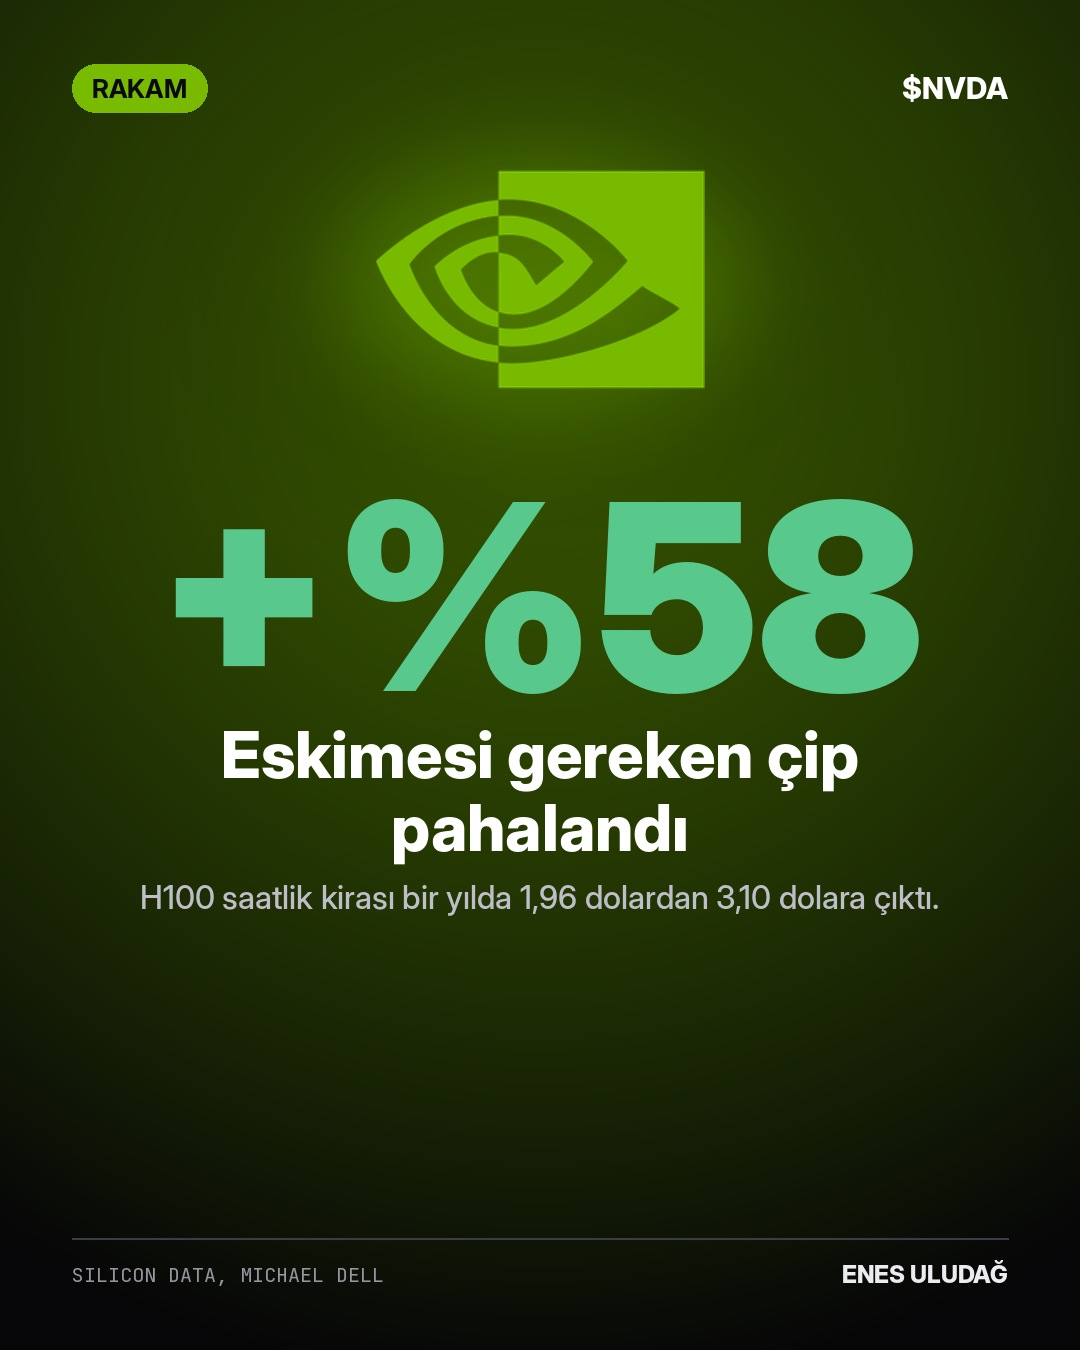
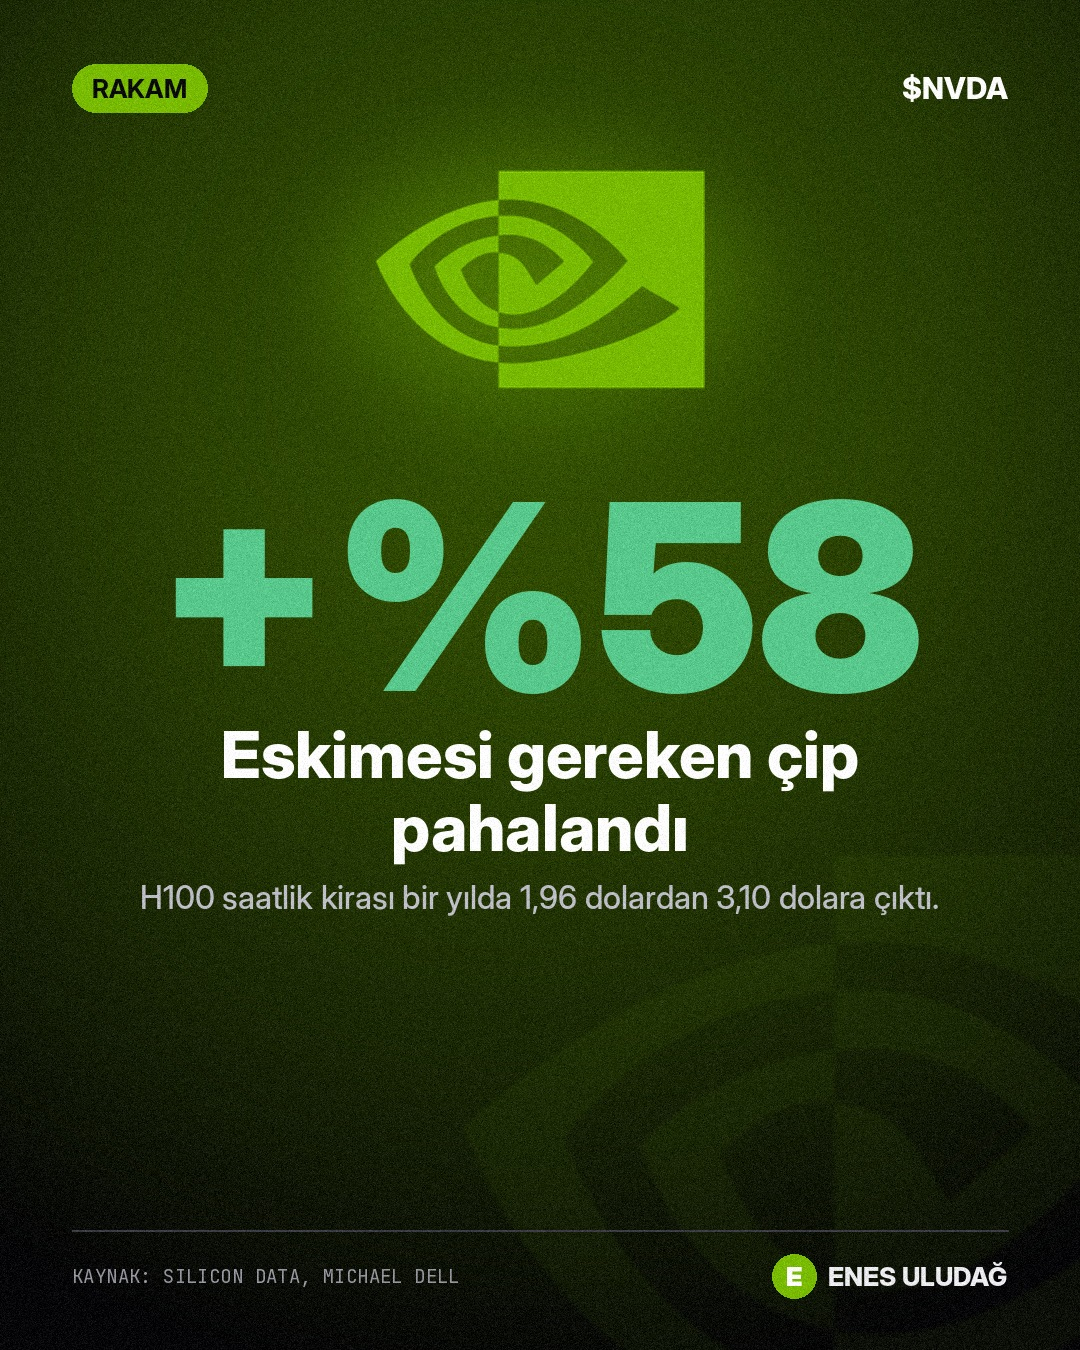
EnesInvestUS: kart2 v2 (gren, filigran, imza, siralama, grafik2)
Claude-Session: https://claude.ai/code/session_01EmZ47mAdj8JXxs11dkVftd

Changed region(s): [[0.6417, 0.9022, 0.9472, 0.9644], [0.0611, 0.9333, 0.3667, 0.9644], [0.4889, 0.9022, 0.5806, 0.9333]]

diff --git a/invest/kart2.py b/invest/kart2.py
@@ -74,16 +74,52 @@ def _logo(ticker, size):
     return K.logo(ticker, size) if ticker and ticker.startswith("$") else None
 
 
-def _footer(img, kaynak, ink=(235, 235, 240), muted=(150, 150, 160), line=(60, 60, 70)):
+def _footer(img, kaynak, ink=(235, 235, 240), muted=(150, 150, 160), line=(60, 60, 70), acc=None):
     d = ImageDraw.Draw(img)
-    d.line((72, H - 112, W - 72, H - 112), fill=line, width=2)
-    d.text((72, H - 76), kaynak.upper(), font=K.mono(20), fill=muted, anchor="lm")
-    d.text((W - 72, H - 76), HANDLE, font=sans(24, "ExtraBold"), fill=ink, anchor="rm")
+    d.line((72, H - 120, W - 72, H - 120), fill=line, width=2)
+    d.text((72, H - 74), ("KAYNAK: " + kaynak).upper(), font=K.mono(19), fill=muted, anchor="lm")
+    # imza: monogram + isim
+    acc = acc or (212, 175, 105)
+    nf = sans(26, "ExtraBold")
+    tw = d.textlength(HANDLE, font=nf)
+    x1 = W - 72
+    d.text((x1, H - 74), HANDLE, font=nf, fill=ink, anchor="rm")
+    cx = int(x1 - tw - 34)
+    d.ellipse((cx - 22, H - 96, cx + 22, H - 52), fill=acc)
+    d.text((cx, H - 74), "E", font=sans(26, "Black"), fill=(10, 10, 12) if sum(acc) > 380 else (255, 255, 255), anchor="mm")
 
 
-def _save(img, out):
+def _grain(img, amt=7):
+    import numpy as np
+    a = np.asarray(img.convert("RGB")).astype(np.int16)
+    n = np.random.default_rng(7).normal(0, amt, a.shape[:2])[..., None]
+    return Image.fromarray(np.clip(a + n, 0, 255).astype(np.uint8))
+
+
+def _watermark(img, ticker, size=900, x=None, y=None, alpha=22):
+    lg = _logo(ticker, size)
+    if lg is None:
+        return
+    r, g, b, a = lg.split()
+    a = a.point(lambda v: v * alpha // 255)
+    lg.putalpha(a)
+    img.paste(lg, (W - int(lg.width * 0.62) if x is None else x, H - int(lg.height * 0.75) if y is None else y), lg)
+
+
+def _shadow_paste(img, tile, xy, r=40, blur=30, op=150):
+    sh = Image.new("RGBA", (tile.width + blur * 4, tile.height + blur * 4), (0, 0, 0, 0))
+    ImageDraw.Draw(sh).rounded_rectangle((blur * 2, blur * 2 + 14, blur * 2 + tile.width, blur * 2 + tile.height + 14), radius=r, fill=(0, 0, 0, op))
+    sh = sh.filter(ImageFilter.GaussianBlur(blur))
+    img.paste(sh, (xy[0] - blur * 2, xy[1] - blur * 2), sh)
+    img.paste(tile, xy, tile)
+
+
+def _save(img, out, grain=True):
     os.makedirs(os.path.dirname(os.path.abspath(out)) or ".", exist_ok=True)
-    img.convert("RGB").save(out, quality=93)
+    img = img.convert("RGB")
+    if grain:
+        img = _grain(img)
+    img.save(out, quality=93)
     return out
 
 
@@ -91,6 +127,7 @@ def _save(img, out):
 def spotlight(ticker, rakam, baslik, alt, kaynak, out, etiket="RAKAM"):
     br = _brand(ticker)
     img = _radial((W, H), _mix(br, (0, 0, 0), 0.55), (6, 6, 8), cy=0.28, r=0.75)
+    _watermark(img, ticker, 1000, alpha=14)
     d = ImageDraw.Draw(img)
     d.rounded_rectangle((72, 64, 72 + d.textlength(etiket, font=sans(26, "Bold")) + 40, 112), radius=24, fill=br)
     d.text((92, 88), etiket, font=sans(26, "Bold"), fill=(10, 10, 12), anchor="lm")
@@ -118,7 +155,7 @@ def spotlight(ticker, rakam, baslik, alt, kaynak, out, etiket="RAKAM"):
     y += 16
     for l in _wrap(d, alt, sans(32, "Medium"), W - 200)[:3]:
         d.text((W // 2, y), l, font=sans(32, "Medium"), fill=(190, 190, 200), anchor="ma"); y += 46
-    _footer(img, kaynak)
+    _footer(img, kaynak, acc=br)
     return _save(img, out)
 
 
@@ -136,7 +173,7 @@ def split(ticker, baslik, satirlar, kaynak, out, etiket="HABER"):
         plate = Image.new("RGBA", (lg.width + 80, lg.height + 80), (0, 0, 0, 0))
         ImageDraw.Draw(plate).rounded_rectangle((0, 0, plate.width - 1, plate.height - 1), radius=48, fill=_plate_fill(lg, 245))
         plate.paste(lg, (40, 40), lg)
-        img.paste(plate, ((W - plate.width) // 2, 280 - plate.height // 2), plate)
+        _shadow_paste(img, plate, ((W - plate.width) // 2, 280 - plate.height // 2), r=48)
     d = ImageDraw.Draw(img)
     y = 610
     f, ls = _fit(d, baslik, "Black", 84, W - 144, 3)
@@ -156,7 +193,10 @@ def split(ticker, baslik, satirlar, kaynak, out, etiket="HABER"):
 def terminal(ticker, baslik, satirlar, kaynak, out, etiket="PİYASA"):
     OR = (255, 152, 0)
     img = Image.new("RGB", (W, H), (0, 0, 0))
+    _watermark(img, ticker, 900, alpha=16)
     d = ImageDraw.Draw(img)
+    for gy in range(120, H - 120, 60):
+        d.line((0, gy, W, gy), fill=(14, 14, 14))
     d.rectangle((0, 0, W, 90), fill=OR)
     d.text((40, 45), f"{ticker}  <EQUITY>  {etiket}", font=K.mono(34, 800), fill=(0, 0, 0), anchor="lm")
     d.text((W - 40, 45), "ENES", font=K.mono(34, 800), fill=(0, 0, 0), anchor="rm")
@@ -185,8 +225,10 @@ def terminal(ticker, baslik, satirlar, kaynak, out, etiket="PİYASA"):
 def sondakika(ticker, baslik, alt, kaynak, out, bant="SON DAKİKA"):
     RED = (225, 30, 45)
     img = Image.new("RGB", (W, H), (250, 248, 244))
+    _watermark(img, ticker, 1000, alpha=20)
     d = ImageDraw.Draw(img)
     d.rectangle((0, 0, W, 130), fill=RED)
+    d.rectangle((0, 130, W, 140), fill=(20, 20, 22))
     d.text((72, 65), bant, font=sans(54, "Black"), fill=(255, 255, 255), anchor="lm")
     d.text((W - 72, 65), ticker, font=sans(40, "ExtraBold"), fill=(255, 255, 255), anchor="rm")
     lg = _logo(ticker, 280)
@@ -207,7 +249,8 @@ def sondakika(ticker, baslik, alt, kaynak, out, bant="SON DAKİKA"):
 # E — ÖNCE / SONRA: iki dev rakam, ok
 def once_sonra(ticker, baslik, once, sonra, once_lbl, sonra_lbl, degisim, kaynak, out, etiket="KARŞILAŞTIRMA"):
     br = _brand(ticker)
-    img = _vgrad((W, H), (16, 16, 20), (6, 6, 8))
+    img = _vgrad((W, H), _mix(br, (0, 0, 0), 0.85), (6, 6, 8))
+    _watermark(img, ticker, 1000, alpha=12)
     d = ImageDraw.Draw(img)
     d.text((72, 70), etiket, font=sans(28, "Bold"), fill=br)
     lg = _logo(ticker, 220)
@@ -263,7 +306,7 @@ def kapak(photo, ticker, ust, baslik, alt, kaynak, out):
         plate = Image.new("RGBA", (lg.width + 40, lg.height + 40), (0, 0, 0, 0))
         ImageDraw.Draw(plate).rounded_rectangle((0, 0, plate.width - 1, plate.height - 1), radius=28, fill=_plate_fill(lg, 240))
         plate.paste(lg, (20, 20), lg)
-        img.paste(plate, (W - 72 - plate.width, 50), plate)
+        _shadow_paste(img, plate, (W - 72 - plate.width, 50), r=30)
     d = ImageDraw.Draw(img)
     f, ls = _fit(d, baslik, "Black", 104, W - 144, 3, 60)
     y = H - 170 - len(ls) * int(f.size * 1.04) - 120
@@ -287,7 +330,7 @@ def cam(ticker, baslik, kutular, yorum, kaynak, out, etiket="BİLANÇO"):
         plate = Image.new("RGBA", (lg.width + 60, lg.height + 60), (0, 0, 0, 0))
         ImageDraw.Draw(plate).rounded_rectangle((0, 0, plate.width - 1, plate.height - 1), radius=40, fill=_plate_fill(lg, 235))
         plate.paste(lg, (30, 30), lg)
-        img.paste(plate, (W - 72 - plate.width, 60), plate)
+        _shadow_paste(img, plate, (W - 72 - plate.width, 60), r=40)
     d = ImageDraw.Draw(img, "RGBA")
     f, ls = _fit(d, baslik, "Black", 84, W - 144 - (320 if lg else 0), 3)
     y = 140
@@ -323,7 +366,7 @@ def poster(ticker, buyuk, ust, alt, kaynak, out, renk=None):
         plate = Image.new("RGBA", (lg.width + 40, lg.height + 40), (0, 0, 0, 0))
         ImageDraw.Draw(plate).rounded_rectangle((0, 0, plate.width - 1, plate.height - 1), radius=30, fill=_plate_fill(lg, 250))
         plate.paste(lg, (20, 20), lg)
-        img.paste(plate, (W - 72 - plate.width, 50), plate)
+        _shadow_paste(img, plate, (W - 72 - plate.width, 50), r=30)
     d = ImageDraw.Draw(img)
     fs = 520
     while d.textlength(buyuk, font=sans(fs, "Black")) > W - 100 and fs > 140:
@@ -333,4 +376,79 @@ def poster(ticker, buyuk, ust, alt, kaynak, out, renk=None):
     for l in _wrap(d, alt, sans(46, "Bold"), W - 144)[:3]:
         d.text((W // 2, y), l, font=sans(46, "Bold"), fill=ink, anchor="ma"); y += 60
     _footer(img, kaynak, ink=ink, muted=ink, line=ink)
+    return _save(img, out)
+
+
+# I — SIRALAMA: yatay çubuklar, her satırda logo (çoklu hisse karşılaştırma)
+def siralama(baslik, alt, satirlar, birim, kaynak, out, vurgu=(), etiket="SIRALAMA", renk=(110, 180, 255)):
+    """satirlar: [(ticker, deger_float, etiket_str), ...] büyükten küçüğe verilir. vurgu: portföy ticker'ları."""
+    img = _vgrad((W, H), (14, 16, 24), (6, 6, 8))
+    d = ImageDraw.Draw(img)
+    d.rounded_rectangle((72, 64, 72 + d.textlength(etiket, font=sans(24, "Bold")) + 36, 108), radius=22, fill=renk)
+    d.text((90, 86), etiket, font=sans(24, "Bold"), fill=(10, 10, 12), anchor="lm")
+    f, ls = _fit(d, baslik, "Black", 76, W - 144, 2)
+    y = 140
+    for l in ls:
+        d.text((72, y), l, font=f, fill=(255, 255, 255)); y += int(f.size * 1.06)
+    d.text((72, y + 6), alt, font=sans(30, "Medium"), fill=(160, 166, 180)); y += 70
+    rows = satirlar[:10]
+    rh = min(96, (H - 160 - y) // max(1, len(rows)))
+    mx = max(v for _, v, _ in rows)
+    x0, x1 = 72 + 70 + 150, W - 72 - 150
+    for t, v, lab in rows:
+        cy = y + rh // 2
+        lg = _logo(t, rh - 22)
+        if lg:
+            img.paste(lg, (72 + (56 - lg.width) // 2, cy - lg.height // 2), lg)
+        hl = t in vurgu
+        d.text((72 + 70, cy), t.replace("$", ""), font=sans(30, "ExtraBold"), fill=(255, 255, 255) if hl else (200, 204, 214), anchor="lm")
+        bw = int((x1 - x0) * v / mx)
+        col = (255, 196, 60) if hl else renk
+        d.rounded_rectangle((x0, cy - (rh - 34) // 2, x0 + max(bw, 12), cy + (rh - 34) // 2), radius=10, fill=col)
+        d.text((x0 + bw + 16, cy), lab, font=sans(32, "Black"), fill=(255, 255, 255), anchor="lm")
+        y += rh
+    d.text((72, y + 14), birim, font=K.mono(20), fill=(130, 136, 150))
+    if vurgu:
+        d.rounded_rectangle((72, y + 48, 96, y + 72), radius=6, fill=(255, 196, 60))
+        d.text((108, y + 60), "takip listem", font=sans(22, "Medium"), fill=(200, 200, 210), anchor="lm")
+    _footer(img, kaynak, acc=renk)
+    return _save(img, out)
+
+
+# J — GÜÇLÜ GRAFİK: kalın sütunlar, marka renginde gradyan, son değer etiketi
+def grafik2(ticker, baslik, etiketler, degerler, birim, not_satiri, kaynak, out, etiket="GRAFİK"):
+    br = _brand(ticker, (110, 180, 255))
+    img = _vgrad((W, H), _mix(br, (0, 0, 0), 0.86), (6, 6, 8))
+    _watermark(img, ticker, 1000, alpha=10)
+    d = ImageDraw.Draw(img)
+    d.text((72, 70), etiket, font=sans(28, "Bold"), fill=br)
+    lg = _logo(ticker, 200)
+    if lg:
+        img.paste(lg, (W - 72 - lg.width, 60), lg)
+    f, ls = _fit(d, baslik, "Black", 78, W - 144 - (230 if lg else 0), 3)
+    y = 130
+    for l in ls:
+        d.text((72, y), l, font=f, fill=(255, 255, 255)); y += int(f.size * 1.06)
+    top, bot = max(y, 290) + 90, H - 290
+    n = len(degerler); left, right = 80, W - 80; step = (right - left) / n
+    mx = max(degerler) * 1.1
+    for gy in range(4):
+        yy = bot - (bot - top) * gy / 3
+        d.line((left - 10, yy, right + 10, yy), fill=(40, 40, 48), width=1)
+    for i, (e, v) in enumerate(zip(etiketler, degerler)):
+        cx = left + step * i + step / 2; bw = step * (0.62 if n <= 10 else 0.74)
+        yy = bot - v / mx * (bot - top)
+        last = i == n - 1
+        bar = _vgrad((int(bw), max(2, int(bot - yy))), _mix(br, (255, 255, 255), 0.25) if last else (92, 92, 104), br if last else (56, 56, 66))
+        m = Image.new("L", bar.size, 0); ImageDraw.Draw(m).rounded_rectangle((0, 0, bar.width - 1, bar.height + 20), radius=12, fill=255)
+        img.paste(bar, (int(cx - bw / 2), int(yy)), m)
+        lab = (f"{v:,.1f}".rstrip("0").rstrip(".") if isinstance(v, float) else f"{v:,}").replace(",", "X").replace(".", ",").replace("X", ".")
+        if n <= 12 or i % 2 == 0 or last:
+            d.text((cx, yy - 12), lab, font=sans(30 if n <= 10 else 20, "Black"), fill=(255, 255, 255), anchor="mb")
+        if n <= 12 or i % 3 == 0 or last:
+            d.text((cx, bot + 20), e, font=sans(24 if n <= 10 else 18, "SemiBold"), fill=(170, 170, 182), anchor="ma")
+    d.text((72, bot + 80), birim, font=K.mono(22), fill=(130, 130, 140))
+    for l in _wrap(d, not_satiri, sans(40, "ExtraBold"), W - 144)[:2]:
+        d.text((72, bot + 120), l, font=sans(40, "ExtraBold"), fill=br); bot += 50
+    _footer(img, kaynak, acc=br)
     return _save(img, out)

diff --git a/invest/DONGU.md b/invest/DONGU.md
@@ -69,3 +69,4 @@ Durdurmak için en alta `DURDUR` yazılı bir satır ekle (Enes ya da Claude, En
 - 20:43 Enes: aralik 6-14 dk rastgele (tam 10 olmasin). Zincir guncellendi.
 - 20:50 Enes: logolar daha belirgin -> kart.py logo boyutlari ~1,4x (DEVIR 5b).
 - 21:00 Enes: daha dikkat cekici/profesyonel gorsel istedi -> kart2.py 8 yeni duzen (A spotlight, B split, C terminal, D son dakika, E once/sonra, F kapak(foto), G cam, H poster); ornekler g/ornek/. Enes secimi bekleniyor.
+- 21:15 kart2 v2: gren dokusu, filigran logo, golgeli logo plakasi, E monogramli imza; yeni I siralama (logolu yatay cubuk), J guclu grafik. Ornekler g/ornek/.
